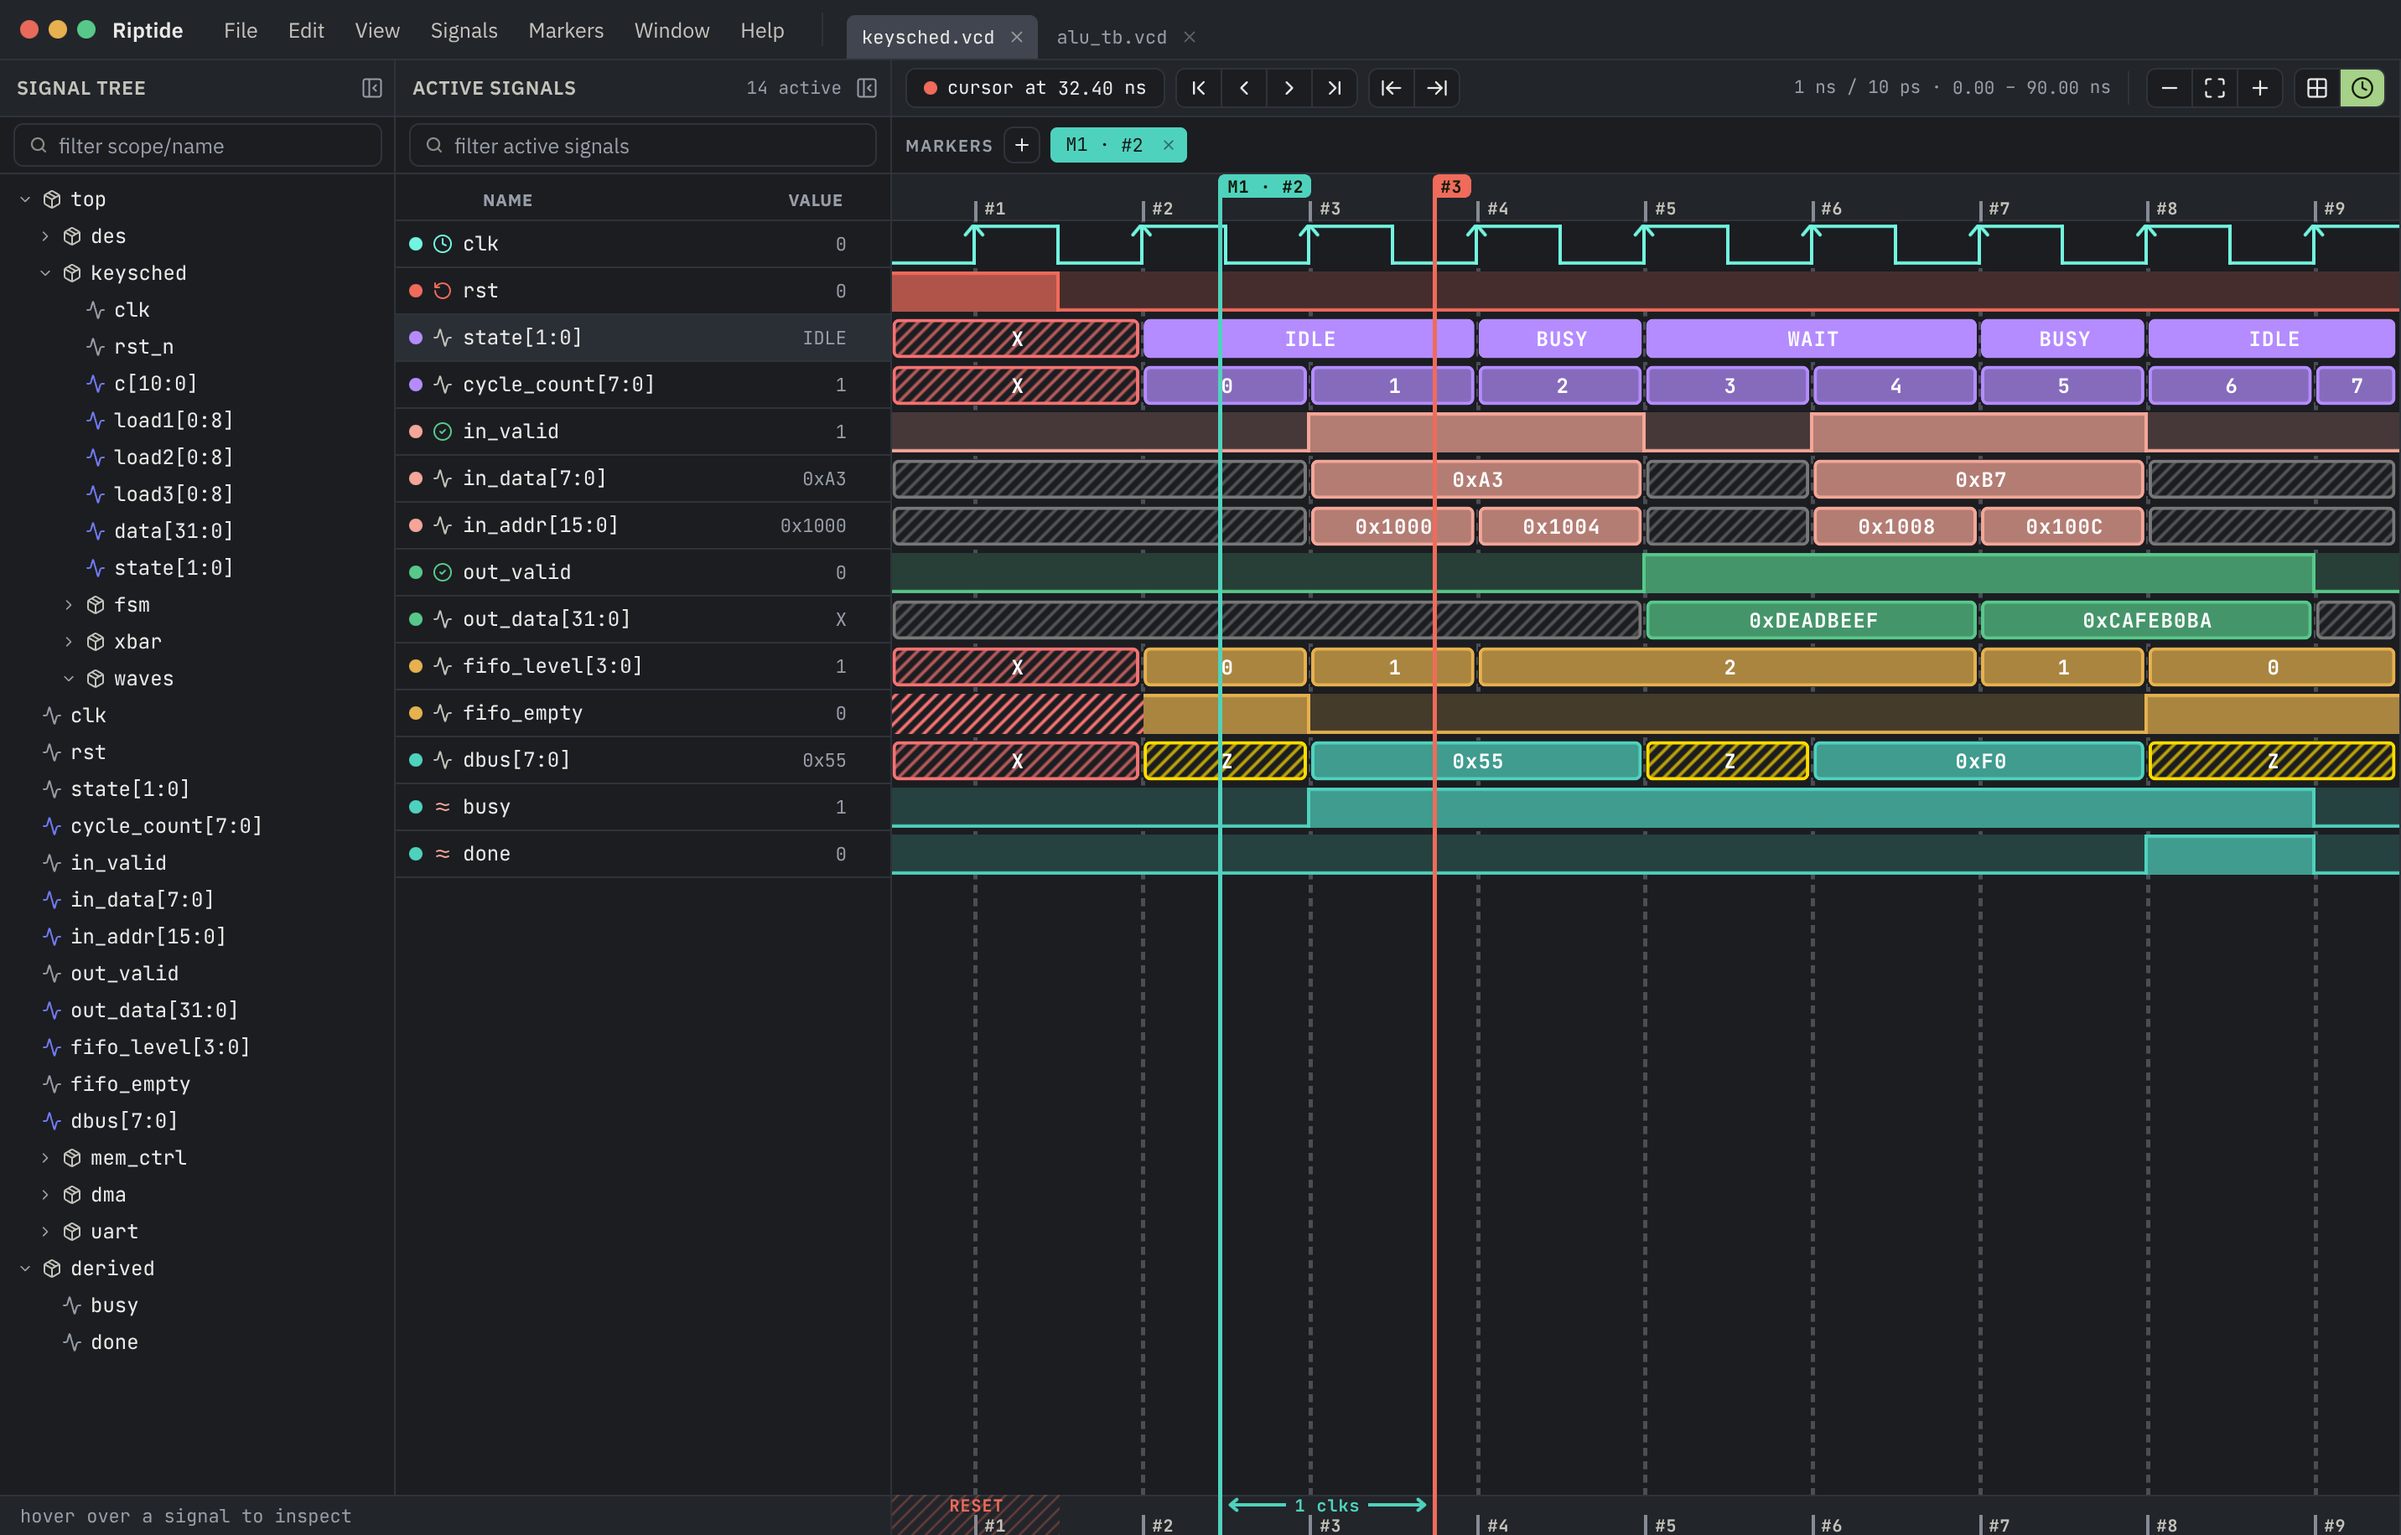
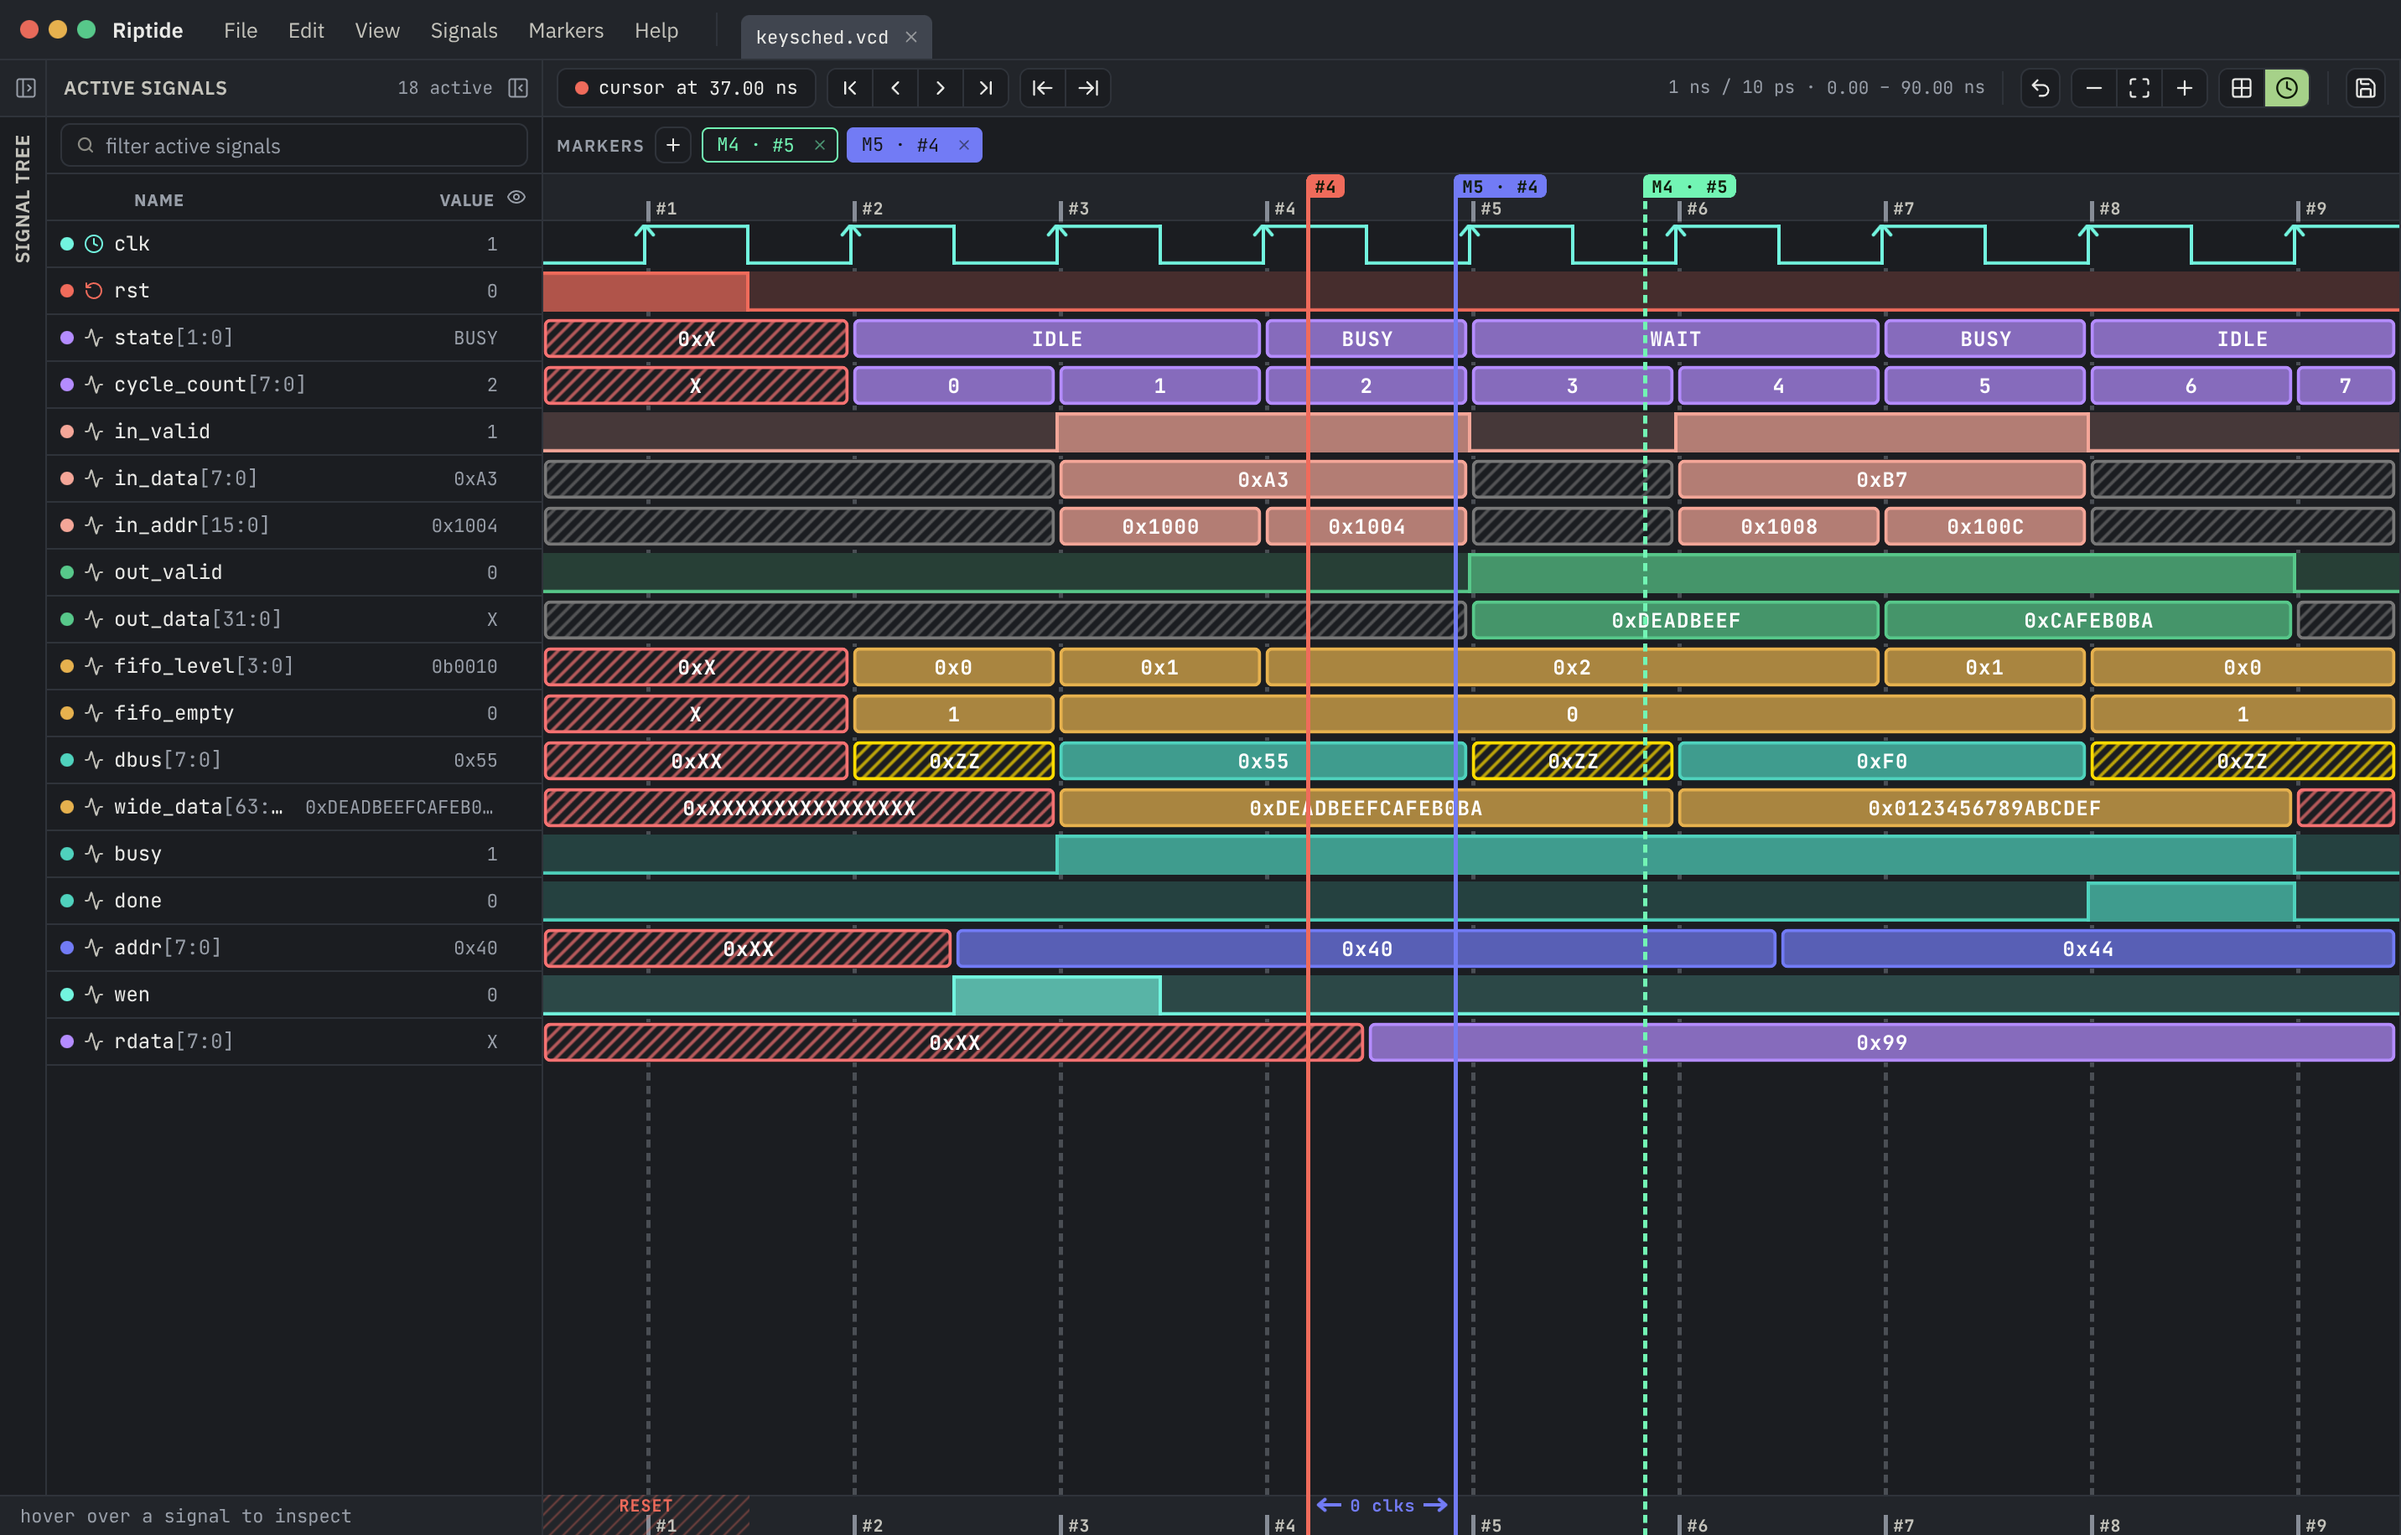
minor cleanup, update screenshot

diff --git a/src/assets/style.css b/src/assets/style.css
@@ -248,6 +248,7 @@ h1 .em { color:var(--accent); }
 .split { display:grid; grid-template-columns:1fr 1fr; gap:72px; align-items:center; }
 .split .copy h2 { font-size:34px; line-height:1.12; letter-spacing:-.6px; font-weight:600; margin:0 0 18px; }
 .split .copy p { font-size:16.5px; color:var(--text-2); margin:0 0 28px; }
+.soon-foot { font-family:'JetBrains Mono',monospace; font-size:12px; color:var(--muted); margin:18px 0 0 !important; }
 .feat-list { display:flex; flex-direction:column; gap:18px; }
 .feat-list li { display:flex; gap:14px; list-style:none; }
 .feat-list .pin { width:9px; height:9px; border-radius:50%; margin-top:7px; flex:none; }
